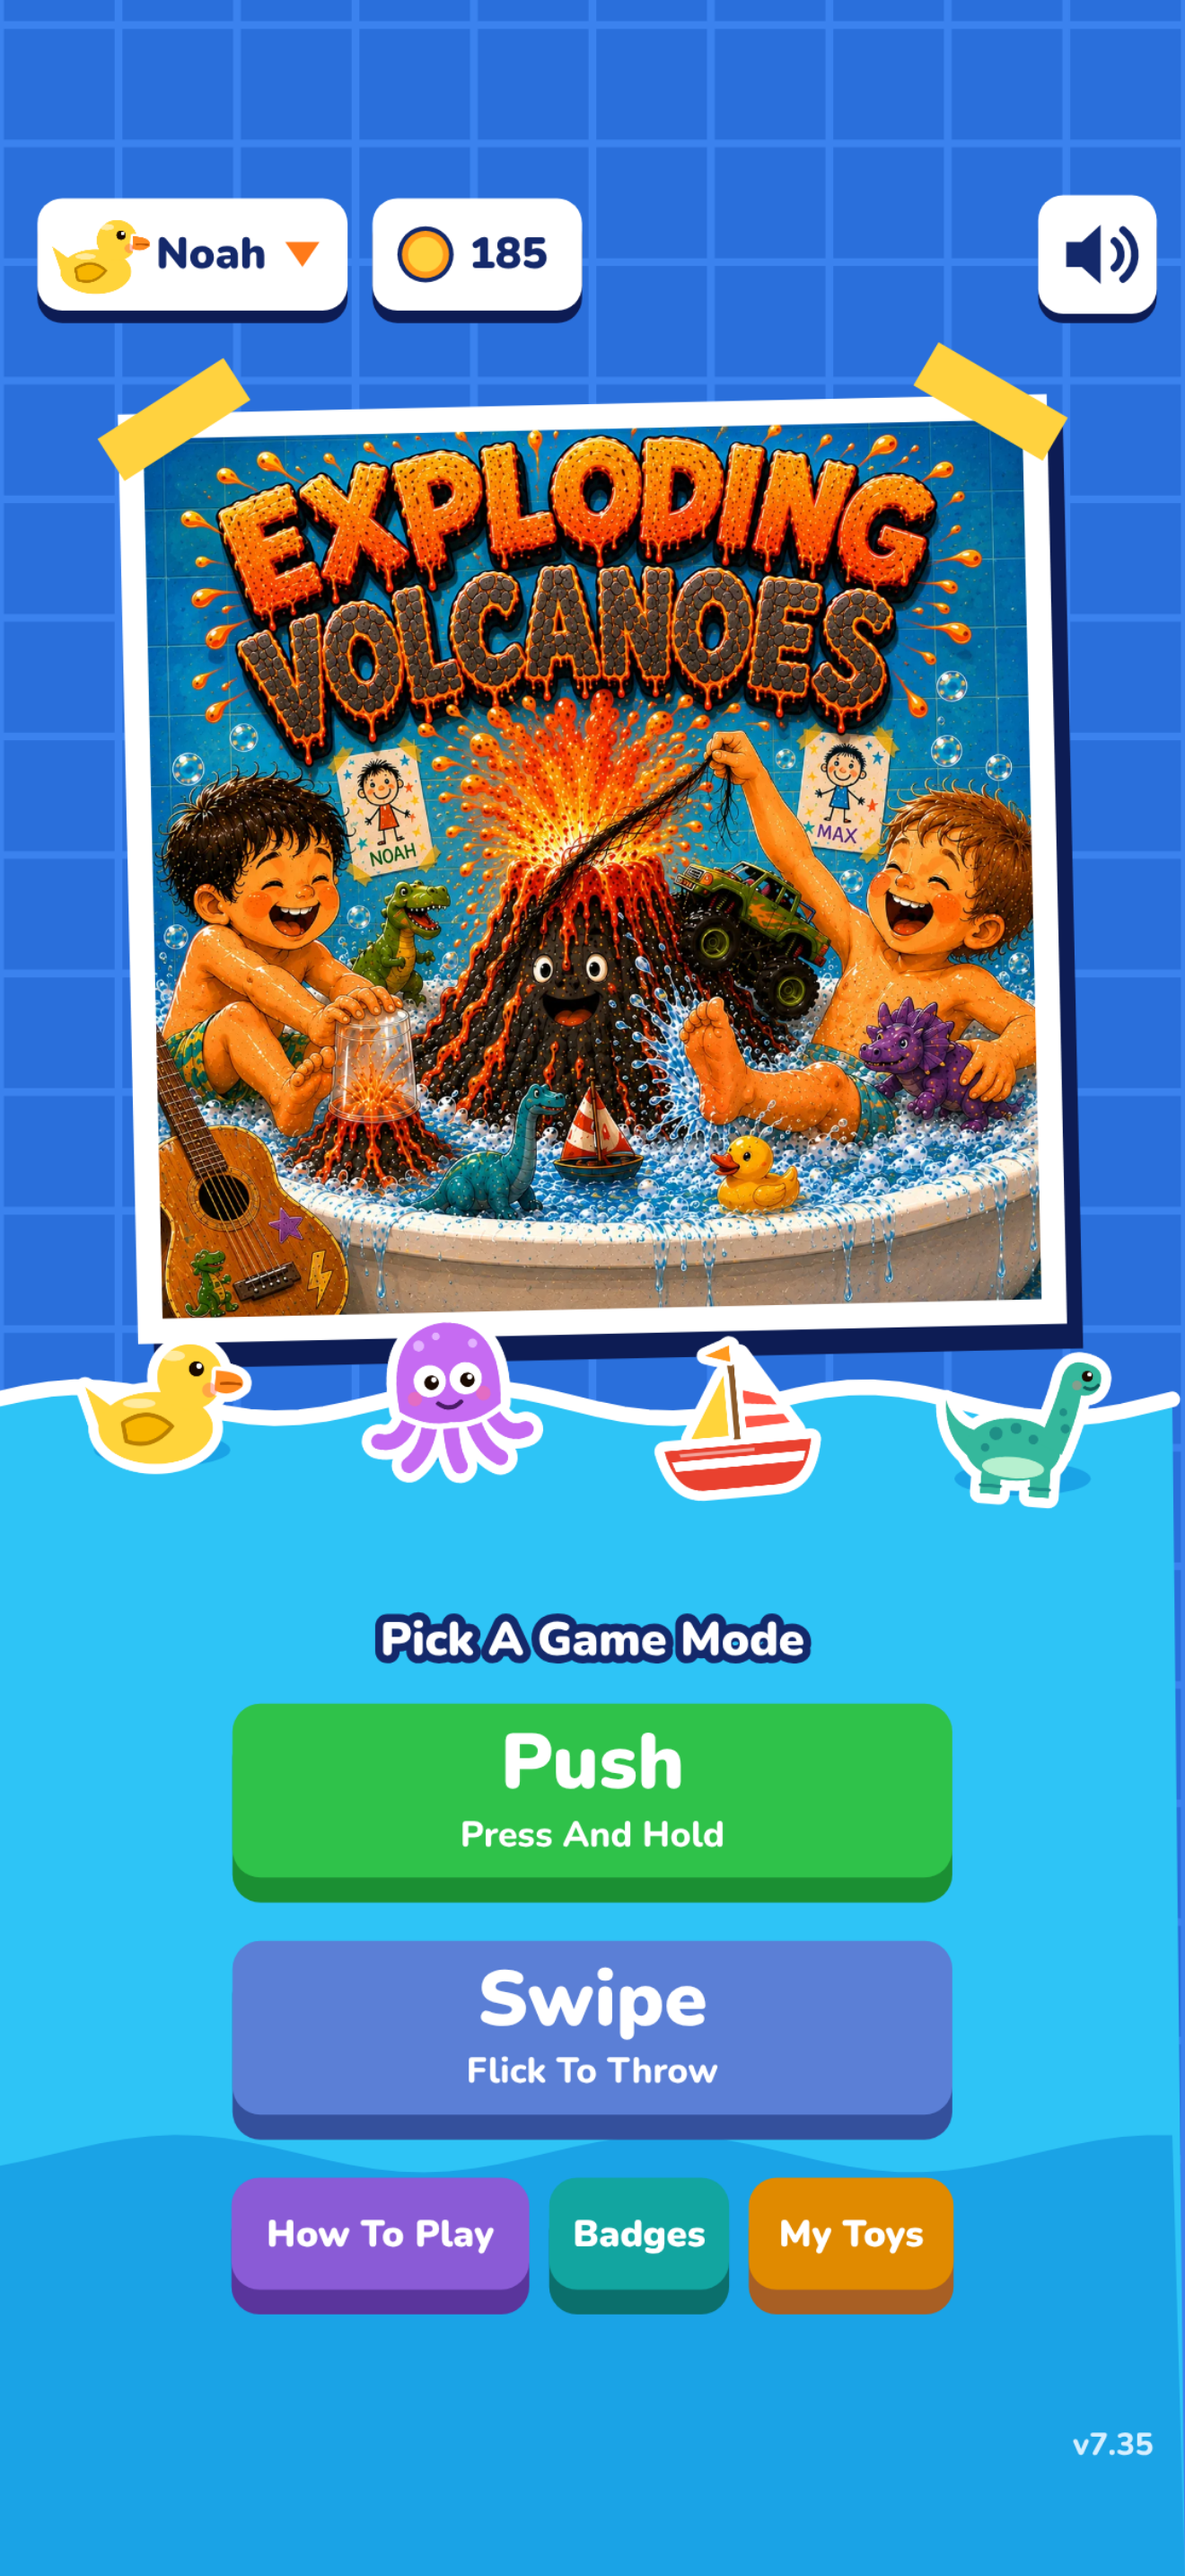
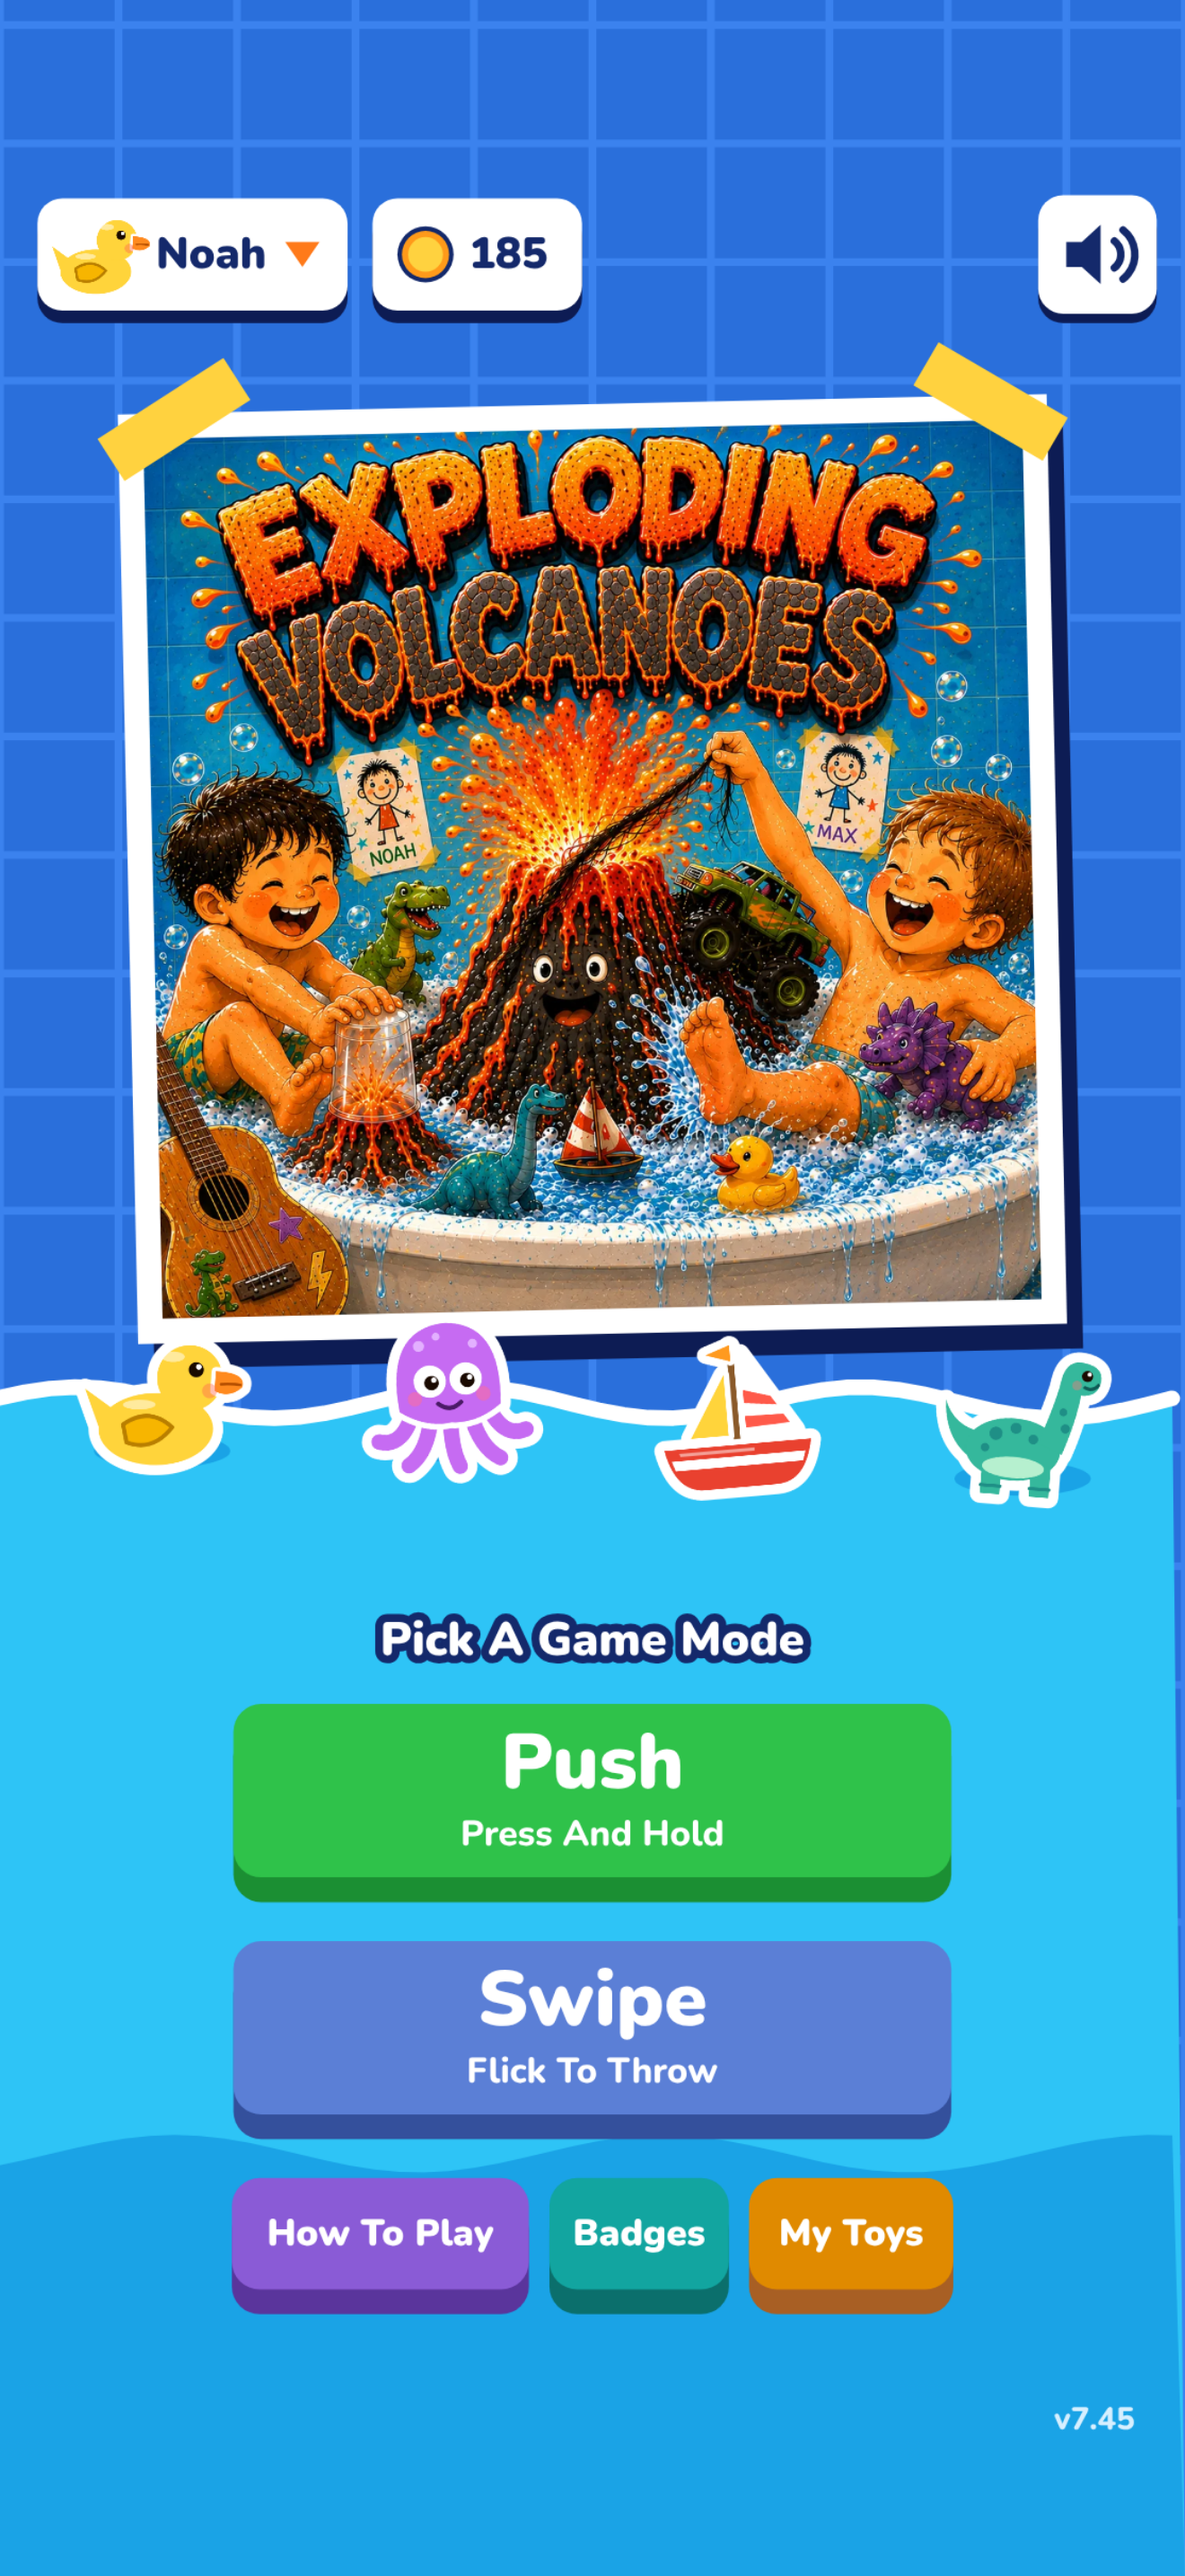
App Store listing: privacy and support pages, listing draft, screenshots remade from v7.45
privacy.html and support.html (contact dnachimow@gmail.com, Derek's choice) for the App Store's required URLs.
native/STORE-LISTING.md drafts description, keywords, promo text, age-rating and privacy answers, review notes.

Claude-Session: https://claude.ai/code/session_01TADmkqn4aj7ru7NVQitFH1

Changed region(s): [[0.9008, 0.931, 0.9629, 0.962], [0.1864, 0.5275, 0.2174, 0.5586], [0.0932, 0.5275, 0.1242, 0.5586]]

diff --git a/privacy.html b/privacy.html
@@ -1,0 +1,48 @@
+<!DOCTYPE html>
+<html lang="en">
+<head>
+<meta charset="utf-8" />
+<meta name="viewport" content="width=device-width, initial-scale=1" />
+<title>Privacy Policy | Exploding Volcanoes in the Bathtub</title>
+<meta name="theme-color" content="#2a6fdb" />
+<link rel="icon" href="icon.svg" type="image/svg+xml" />
+<style>*{box-sizing:border-box}body{margin:0;background:#2a6fdb;color:#14296b;font:17px/1.55 ui-rounded,"SF Pro Rounded","Segoe UI","Helvetica Neue",system-ui,sans-serif}
+main{max-width:680px;margin:0 auto;padding:28px 18px 48px}.card{background:#fff;border-radius:14px;padding:26px 24px;box-shadow:0 6px 0 #0d1c54}
+h1{font-size:28px;line-height:1.2;margin:0 0 4px}h2{font-size:19px;margin:26px 0 6px}p,ul{margin:0 0 12px}ul{padding-left:22px}
+.sub{color:#4a6fc4;font-weight:700;margin-bottom:18px}a{color:#1d56c9;font-weight:700}.foot{margin-top:22px;font-size:14px;color:#4a6fc4}</style>
+</head>
+<body>
+<main><div class="card">
+<h1>Privacy Policy</h1>
+<p class="sub">Exploding Volcanoes in the Bathtub &nbsp;·&nbsp; Last updated November 13, 2026</p>
+<p>The short version: the game does not collect anything about you or your child.</p>
+
+<h2>What the game collects</h2>
+<p>Nothing. The iPhone app and the web game have:</p>
+<ul>
+<li>no accounts, sign-ups or logins</li>
+<li>no ads</li>
+<li>no analytics or tracking</li>
+<li>no in-app purchases (coins are earned only by playing)</li>
+<li>no chat, links to social media or sharing features</li>
+</ul>
+
+<h2>What is saved, and where</h2>
+<p>The game saves player names, toys, coins, badges and scores so they are there next time. This is stored only on the device you play on. It is never sent to us or to anyone else, and we cannot see it. Player names are whatever you type in (up to 10 letters); they do not have to be real names.</p>
+<p>Deleting the app, or clearing the website's data in your browser, erases this saved progress.</p>
+
+<h2>The website</h2>
+<p>The web version of the game is hosted on GitHub Pages. Like most web hosts, GitHub may record technical details such as IP addresses in its server logs when a page is loaded. We do not have access to those logs. See <a href="https://docs.github.com/en/site-policy/privacy-policies/github-general-privacy-statement">GitHub's privacy statement</a>. The iPhone app does not load anything from the internet while you play.</p>
+
+<h2>Children</h2>
+<p>The game is made for families and young children. Because it collects no personal information from anyone, it collects none from children.</p>
+
+<h2>Changes</h2>
+<p>If this policy changes, the new version will be posted on this page with a new date.</p>
+
+<h2>Contact</h2>
+<p>Questions about privacy: <a href="mailto:dnachimow@gmail.com">dnachimow@gmail.com</a></p>
+<p class="foot"><a href="./">Play the game</a> &nbsp;·&nbsp; <a href="privacy.html">Privacy</a> &nbsp;·&nbsp; <a href="support.html">Support</a></p>
+</div></main>
+</body>
+</html>

diff --git a/support.html b/support.html
@@ -1,0 +1,42 @@
+<!DOCTYPE html>
+<html lang="en">
+<head>
+<meta charset="utf-8" />
+<meta name="viewport" content="width=device-width, initial-scale=1" />
+<title>Support | Exploding Volcanoes in the Bathtub</title>
+<meta name="theme-color" content="#2a6fdb" />
+<link rel="icon" href="icon.svg" type="image/svg+xml" />
+<style>*{box-sizing:border-box}body{margin:0;background:#2a6fdb;color:#14296b;font:17px/1.55 ui-rounded,"SF Pro Rounded","Segoe UI","Helvetica Neue",system-ui,sans-serif}
+main{max-width:680px;margin:0 auto;padding:28px 18px 48px}.card{background:#fff;border-radius:14px;padding:26px 24px;box-shadow:0 6px 0 #0d1c54}
+h1{font-size:28px;line-height:1.2;margin:0 0 4px}h2{font-size:19px;margin:26px 0 6px}p,ul{margin:0 0 12px}ul{padding-left:22px}
+.sub{color:#4a6fc4;font-weight:700;margin-bottom:18px}a{color:#1d56c9;font-weight:700}.foot{margin-top:22px;font-size:14px;color:#4a6fc4}</style>
+</head>
+<body>
+<main><div class="card">
+<h1>Support</h1>
+<p class="sub">Exploding Volcanoes in the Bathtub</p>
+<p>Need help, found a bug, or have an idea for a new bath toy? Email <a href="mailto:dnachimow@gmail.com">dnachimow@gmail.com</a>. Please say what device you are using and what happened.</p>
+
+<h2>How do I play?</h2>
+<p>Help Noah splash the bath toys into the volcano before the clock runs out. Get them all in and the volcano erupts. Tap <b>How To Play</b> on the start screen for a walk-through with pictures.</p>
+<ul>
+<li><b>Push:</b> press and hold a toy, then let go to throw it.</li>
+<li><b>Swipe:</b> flick a toy toward the volcano.</li>
+<li><b>Easy</b> shows hints. <b>Hard</b> hides them.</li>
+</ul>
+
+<h2>How do I get more toys?</h2>
+<p>Win rounds and earn badges to collect coins, then open <b>My Toys</b> on the start screen to buy toys and choose your lineup. Coins only come from playing. Nothing in the game costs real money.</p>
+
+<h2>Can more than one child play?</h2>
+<p>Yes. Tap the player name at the top left of the start screen to add up to four players. Each one has their own toys, coins and badges.</p>
+
+<h2>There is no sound</h2>
+<p>Check the speaker button at the top right of the game, the volume buttons, and the silent switch on the side of the iPhone.</p>
+
+<h2>Is my progress saved?</h2>
+<p>Yes, on your device. It is not backed up to an account, so deleting the app erases it. Progress in the iPhone app and on the website are kept separately.</p>
+<p class="foot"><a href="./">Play the game</a> &nbsp;·&nbsp; <a href="privacy.html">Privacy</a> &nbsp;·&nbsp; <a href="support.html">Support</a></p>
+</div></main>
+</body>
+</html>

diff --git a/native/STORE-LISTING.md b/native/STORE-LISTING.md
@@ -1,0 +1,107 @@
+# App Store Listing: Exploding Volcanoes
+
+Draft written 2026-11-13 at live version v7.45. Everything here is for Derek to edit; nothing has been
+entered in App Store Connect yet. Character limits are Apple's.
+
+## Where each thing goes in App Store Connect
+
+| Field | Value |
+|---|---|
+| Name (30 max) | `Exploding Volcanoes` (decided) |
+| Subtitle (30 max) | `In The Bathtub` (decided) |
+| Primary category | Games, then subcategories **Family** and **Casual** |
+| Price | Free (decided) |
+| Privacy Policy URL | `https://dnachimow-evitb.github.io/exploding-volcanos/privacy.html` |
+| Support URL | `https://dnachimow-evitb.github.io/exploding-volcanos/support.html` |
+| Marketing URL (optional) | `https://dnachimow-evitb.github.io/exploding-volcanos/story.html` or leave empty |
+| Copyright | `2026 Derek Nachimow` (Apple adds the © sign; use the name you want shown) |
+| Screenshots (iPhone 6.9") | the five files in `native/screenshots/`, in number order |
+| Build | the newest one in TestFlight (build 11 = v7.45) |
+
+## Promotional text (170 max; can be changed any time without a new review)
+
+```
+Splash bath toys into the volcano until it erupts! Ten rounds, 39 toys to collect, badges to earn, and up to four players. No ads. Nothing to buy.
+```
+
+## Description (4000 max)
+
+```
+The bath is full, the toys are floating, and the volcano is hungry.
+
+Help Noah splash every bath toy into the volcano before the clock runs out. Get them all in and... KABOOM! The volcano erupts and a new toy joins the tub for the next round.
+
+HOW IT PLAYS
+• Push: press and hold a toy, then let go to throw it.
+• Swipe: flick a toy toward the volcano. Bank it off the wall for double points.
+• Pick Easy for helpful hints or Hard for a real challenge.
+• Watch out for Max, who loves to block your throws.
+• Toss in the hairball for extra time.
+
+WHAT'S INSIDE
+• 10 rounds that get busier and faster
+• 39 bath toys to collect: ducks, dinosaurs, a submarine, a unicorn, a toy soldier and many more
+• Earn coins by playing and pick your own toy lineup
+• 12 badges to earn in Bronze, Silver and Gold
+• Up to 4 players on one device, each with their own toys, coins and badges
+• An original song as the soundtrack
+• A How To Play guide with pictures
+
+MADE FOR FAMILIES
+• No ads
+• No in-app purchases. Coins only come from playing
+• No accounts and no sign-up
+• Nothing is collected. Progress is saved only on your device
+• Works without an internet connection
+
+Made by a dad, inspired by bath time with his boys.
+```
+
+Check before using: the last line and the names Noah and Max are from the story page; change or cut as you like.
+
+## Keywords (100 max, commas, no spaces; words already in the name and subtitle are left out)
+
+```
+kids,toddler,bath,toys,family,volcano,lava,toss,throw,duck,dinosaur,splash,casual,preschool,tub
+```
+(95 characters)
+
+## What's New (for later updates; not asked for on version 1.0)
+
+```
+New toy: the Toy Soldier. Plus small fixes.
+```
+
+## Age rating questionnaire
+
+Answer **None** / **No** to every question: no violence (cartoon or realistic), no scary, mature, medical,
+gambling, alcohol or tobacco content, no contests, no unrestricted web access, no user-generated content,
+no chat or messaging, no social media features, no advertising. Expected result: **4+**.
+
+## App Privacy ("nutrition label")
+
+- "Do you or your third-party partners collect data from this app?" **No.** The label will read
+  **Data Not Collected**.
+- Privacy Policy URL: as above.
+
+## Other questions Apple asks
+
+- **Content rights:** the app contains no third-party content that needs a licence (Derek confirmed on
+  2026-11-12 that the rights to the song, cover art and images are covered).
+- **Export compliance:** already answered inside the app (no encryption), so Apple should not ask.
+- **Advertising identifier (IDFA):** No.
+- **Sign-in required:** No. Leave the demo account fields empty.
+- **Made for Kids / Kids category:** still Derek's call. Not selecting it keeps review simpler; selecting it
+  puts the app in the Kids category, is permanent for the app, and has stricter rules (which the game
+  already meets: no ads, no tracking, no outside links, no purchases).
+- **EU Digital Services Act trader status:** Apple asks every developer once. A hobby developer giving away
+  a free app can usually declare **not a trader**; a trader's address and phone number are shown publicly
+  in the EU. This is a legal self-declaration, so read Apple's wording before choosing.
+
+## Notes for the App Review team (App Review Information > Notes)
+
+```
+Exploding Volcanoes is a self-contained children's game. No login is needed and there is nothing to unlock: tap Push or Swipe on the start screen, then Easy, then "Let's Splash!" to play. All game files are inside the app; it makes no network requests. Coins are earned only by playing and there are no purchases, ads, accounts or data collection.
+```
+
+Contact details for App Review (name, phone, email) are entered by Derek and are not shown publicly.

diff --git a/native/APP-STORE.md b/native/APP-STORE.md
@@ -72,11 +72,13 @@ Keep this file current: tick items off and add decisions as they are made.
 ### 3. Store listing (together)
 - [x] **App name "Exploding Volcanoes", subtitle "In The Bathtub"** (Derek, 2026-11-12). Apple allows 30
       characters for each; the full title "Exploding Volcanoes in the Bathtub" is 34.
-- [ ] Description, keywords (100 characters), category (Games > Family or Casual).
+- [x] Description, keywords, category, promotional text, review notes: drafted in `native/STORE-LISTING.md`
+      (2026-11-13) for Derek to edit. Not yet entered in App Store Connect.
 - [x] Screenshots, 6.9-inch iPhone size (1320 x 2868): `native/screenshots/` (start screen, aiming, eruption,
-      Badges, My Toys), made from v7.35. Remake after visible game changes: `npm run build && node scripts/screenshots.js`.
-- [ ] **Privacy policy page** (required for every app) and a **support page**. Both can be simple pages on the
-      game's website. The app collects nothing, so the App Privacy answer is "Data Not Collected".
+      Badges, My Toys), remade from v7.45. Remake after visible game changes: `npm run build && node scripts/screenshots.js`.
+- [x] **Privacy policy and support pages** on the game's website: `privacy.html` and `support.html` at the
+      top of the repo (2026-11-13). Contact shown: dnachimow@gmail.com (Derek's choice). The app collects
+      nothing, so the App Privacy answer is "Data Not Collected".
 - [ ] Age rating questionnaire (expected: the lowest rating).
 - [x] Rights: Derek confirmed on 2026-11-12 that the rights to the song, cover art and images are covered.
 - [x] Price: **free** (Derek, 2026-11-12).
@@ -96,7 +98,6 @@ Made by Derek on 2026-11-12:
 - **Name "Exploding Volcanoes", subtitle "In The Bathtub".**
 
 Still open:
-- Contact email to show on the support page (Apple requires a way to reach the developer).
 - Kids category or not.
 
 ## Commands
